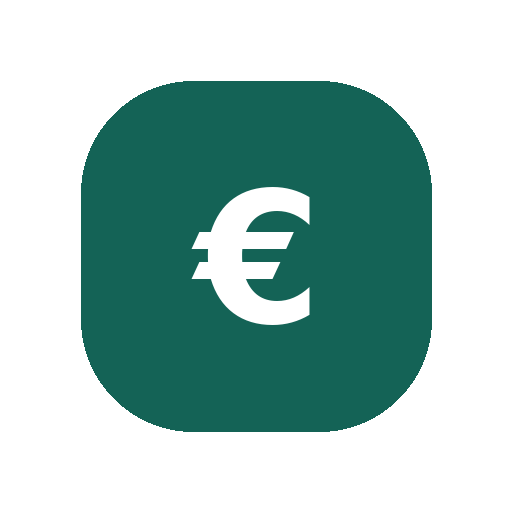
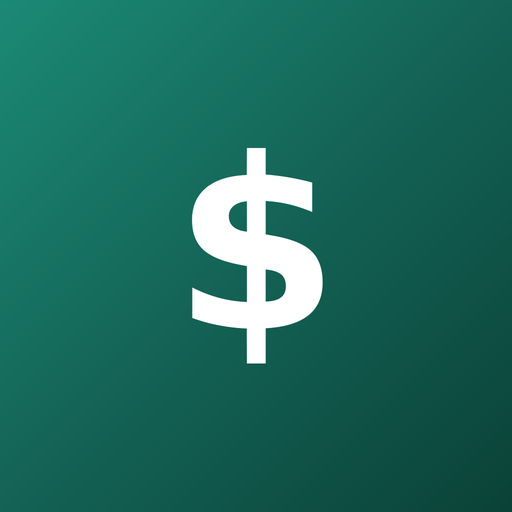
Add files via upload
Parte di aggiornamento per APK e IPA 
1. **Tasto «Ho dimenticato la password»**
   Nella schermata di accesso (email + password) è comparso un piccolo link.
   Scrivi la tua email nel campo, tocca il link e ricevi via email il link per
   reimpostare la password. Vale solo per gli account creati con email+password
   (chi entra con Google non ha una password da reimpostare).

2. **Niente più «Dati aggiornati da un altro dispositivo» quando aggiungi una spesa**
   Prima l'app scambiava la tua stessa modifica per una modifica arrivata da fuori.
   Ora quel messaggio compare **solo** quando i dati cambiano davvero da un altro
   telefono/PC.

3. **Bug «cambio mese → torno in cima alla pagina»**
   Ora quando cambi mese (o modifichi un movimento) la pagina resta dove sei,
   invece di risalire in cima. Lo scorrimento torna in cima solo quando cambi
   scheda o scorri lateralmente tra le schede.

4. **Scheda «Guida all'app»: il testo delle sezioni ora scorre**
   Prima il testo di una sezione aperta risultava tagliato e non si riusciva a
   scorrere. Ora le sezioni hanno un'area di scorrimento dedicata e si legge tutto.

5. **Icone nuove**
   Nuova icona con la **«$»** bianca su fondo teal (richiama sia la S di Spendy
   sia i soldi), al posto della vecchia «€». Sono state aggiornate tutte le misure
   (favicon, 192, 512, 512 maskable, apple-touch-icon).

diff --git a/www/index.html b/www/index.html
@@ -317,6 +317,9 @@ main#content{flex:1;min-height:0;padding:8px 16px 132px;overflow-y:auto;-webkit-
 @keyframes fadein2{from{opacity:0;}to{opacity:1;}}
 .sheet-wrap{position:absolute;left:0;right:0;bottom:0;max-width:480px;margin:0 auto;}
 .sheet{width:100%;max-height:92vh;overflow-y:auto;background:var(--app-bg);border-radius:26px 26px 0 0;padding:10px 18px calc(22px + env(safe-area-inset-bottom));display:flex;flex-direction:column;gap:16px;animation:slideup .38s var(--ease-spring);box-shadow:0 -12px 40px rgba(23,27,24,0.18);}
+.link-btn{background:none;border:none;color:var(--accent);font-size:13px;font-weight:600;padding:2px 0;text-align:center;width:100%;cursor:pointer;text-decoration:underline;text-underline-offset:2px;}
+.link-btn:active{opacity:0.6;}
+.info-scroll{flex:1 1 auto;min-height:0;overflow-y:auto;-webkit-overflow-scrolling:touch;overscroll-behavior:contain;display:flex;flex-direction:column;gap:9px;margin:0 -2px;padding:0 2px 2px;}
 @keyframes slideup{from{transform:translateY(100%);}to{transform:translateY(0);}}
 .sheet-handle{width:38px;height:4.5px;background:var(--handle);border-radius:99px;margin:4px auto 0;flex-shrink:0;}
 /* ---------- Ticket importo ---------- */
@@ -818,7 +821,7 @@ async function saveState(){
    (solo storage locale).
 ================================================================ */
 var SYNC_CONFIG_KEY='expense-tracker-sync-config-v1';
-var APP_VERSION='v20';
+var APP_VERSION='v21';
 /* Config Firebase del progetto, incorporata nell'app: la sincronizzazione
    non chiede più di incollare l'oggetto firebaseConfig a mano.
    Nota: la config web di Firebase non è un segreto (sta in ogni client);
@@ -843,6 +846,7 @@ var sync={
   unsubscribeInbox:null,
   pendingInbox:[],
   lastPushedJSON:null,
+  recentPushes:[],     // ultime scritture NOSTRE: per non mostrare il toast quando l'eco torna indietro
   sdkLoadPromise:null,
   pendingPush:false,   // ci sono modifiche locali non ancora salite nel cloud
   lastSyncAt:0,        // ultima sincronizzazione riuscita (ms)
@@ -966,12 +970,22 @@ function syncDocRef(uid){
   return sync.db.collection('syncedState').doc(uid);
 }
 
+function rememberOwnPush(json){
+  if(!sync.recentPushes)sync.recentPushes=[];
+  sync.recentPushes.push(json);
+  if(sync.recentPushes.length>8)sync.recentPushes.shift();
+}
 async function rawPushStateToCloud(){
   if(!sync.db||!sync.uid)return false;
+  var json=JSON.stringify(state);
+  // Segna SUBITO (prima della scrittura) che questa versione è nostra:
+  // il listener riceve l'eco della nostra stessa modifica quasi all'istante,
+  // spesso prima che il .set() sia confermato dal server. Riconoscendola qui
+  // evitiamo il toast "Dati aggiornati da un altro dispositivo" per le nostre modifiche.
+  sync.lastPushedJSON=json;
+  rememberOwnPush(json);
   try{
-    var json=JSON.stringify(state);
     await syncDocRef(sync.uid).set({data:json,updatedAt:firebase.firestore.FieldValue.serverTimestamp(),updatedBy:sync.email||'device'});
-    sync.lastPushedJSON=json;
     markPendingPush(false);
     return true;
   }catch(e){
@@ -1004,6 +1018,7 @@ function attachSnapshotListener(){
     var remote=snap.data();
     if(!remote||!remote.data)return;
     if(remote.data===sync.lastPushedJSON)return; // eco della nostra stessa scrittura
+    if(sync.recentPushes&&sync.recentPushes.indexOf(remote.data)>-1){sync.lastPushedJSON=remote.data;return;} // eco di una nostra scrittura recente
     try{
       var parsed=JSON.parse(remote.data);
       var remoteAt=parsed.updatedAt||0,localAt=(state&&state.updatedAt)||0;
@@ -1451,6 +1466,28 @@ async function connectSyncWithCredentials(firebaseConfig,email,password,mode){
   }
 }
 
+/* Invia l'email per reimpostare la password a chi ha dimenticato le credenziali.
+   Non serve essere già connessi: inizializza Firebase con la config e chiede
+   a Firebase Auth di spedire il link di reset all'indirizzo indicato. */
+async function sendPasswordReset(firebaseConfig,email){
+  try{
+    await loadFirebaseSDK();
+    sync.firebaseApp=firebase.apps.length?firebase.apps[0]:firebase.initializeApp(firebaseConfig);
+    sync.auth=firebase.auth();
+    await sync.auth.sendPasswordResetEmail(email);
+    return {ok:true};
+  }catch(e){
+    var msg='Non è stato possibile inviare l\'email. Riprova.';
+    if(e&&e.code){
+      if(e.code==='auth/invalid-email')msg='Email non valida.';
+      else if(e.code==='auth/user-not-found')msg='Nessun account registrato con questa email.';
+      else if(e.code==='auth/network-request-failed')msg='Connessione di rete non disponibile.';
+      else if(e.code==='auth/too-many-requests')msg='Troppi tentativi: attendi qualche minuto e riprova.';
+    }
+    return {ok:false,error:msg};
+  }
+}
+
 /* ================================================================
    HELPERS
 ================================================================ */
@@ -1682,6 +1719,12 @@ function confirmDialog(msg,onOk,okLabel){
 var TAB_ORDER=['home','history','recurring','accounts'];
 function renderActiveTab(dir){
   var c=document.getElementById('content');
+  // Se stiamo solo ridisegnando la stessa scheda (es. cambio mese, modifica di
+  // un movimento) manteniamo la posizione di scorrimento invece di tornare in
+  // cima. Azzeriamo lo scroll solo quando si cambia scheda o si scorre lateralmente.
+  var prevScroll=c?c.scrollTop:0;
+  var isSwipe=(dir==='left'||dir==='right');
+  var sameTab=(ui._renderedTab===ui.activeTab);
   if(ui.activeTab==='home'){c.innerHTML=homeHTML();wireHome();}
   else if(ui.activeTab==='history'){c.innerHTML=historyHTML();wireHistory();}
   else if(ui.activeTab==='recurring'){c.innerHTML=recurringHTML();wireRecurring();}
@@ -1691,7 +1734,8 @@ function renderActiveTab(dir){
     var v=c.querySelector('.view');
     if(v)v.classList.add(dir==='left'?'enter-left':'enter-right');
   }
-  c.scrollTop=0;
+  if(sameTab&&!isSwipe)c.scrollTop=prevScroll; else c.scrollTop=0;
+  ui._renderedTab=ui.activeTab;
   document.querySelectorAll('.nav-btn').forEach(function(b){b.classList.toggle('active',b.dataset.tab===ui.activeTab);});
   var appEl=document.getElementById('app');
   if(appEl&&appEl.getAttribute('data-amb')!==ui.activeTab)appEl.setAttribute('data-amb',ui.activeTab);
@@ -2258,6 +2302,7 @@ function openInfoSheet(){
       '<div class="sheet-handle"></div>'+
       '<h3 style="margin:4px 0 0;">Come funziona Spendy</h3>'+
       '<p class="hint" style="margin:0;">Tocca una sezione per scoprirla.</p>'+
+      '<div class="info-scroll">'+
       sections.map(function(s,i){
         var open=i===openIdx;
         return '<div class="info-card'+(open?' open':'')+'" data-info-idx="'+i+'">'+
@@ -2265,6 +2310,7 @@ function openInfoSheet(){
           (open?'<div class="info-body">'+infoIllus(s.k)+'<p>'+s.d+'</p></div>':'')+
         '</div>';
       }).join('')+
+      '</div>'+
       '<p class="profile-footer" style="margin-top:2px;">Spendy · versione '+APP_VERSION+'</p>'+
     '</div>';
   }
@@ -2973,6 +3019,7 @@ function openSyncModal(){
     email:cfg&&cfg.email?cfg.email:'',
     password:'',
     errorMsg:null,
+    notice:null,
     busy:false
   };
 
@@ -3001,7 +3048,9 @@ function openSyncModal(){
       '<p class="hint">'+(m.mode==='signup'?'Crea le credenziali la prima volta, da questo dispositivo. Userai le stesse email e password per accedere dagli altri dispositivi.':'Usa le stesse email e password create sul primo dispositivo.')+'</p>'+
       '<div class="field-group"><label class="field-label">Email</label><input type="email" class="text-input" id="syncEmail" value="'+esc(m.email)+'" autocomplete="email"></div>'+
       '<div class="field-group"><label class="field-label">Password</label><input type="password" class="text-input" id="syncPassword" autocomplete="'+(m.mode==='signup'?'new-password':'current-password')+'" placeholder="'+(m.mode==='signup'?'Almeno 6 caratteri':'')+'"></div>'+
+      (m.mode==='login'?'<button type="button" class="link-btn" id="syncForgot" '+(m.busy?'disabled':'')+'>Ho dimenticato la password</button>':'')+
       (m.errorMsg?'<p class="hint" style="color:var(--red);">⚠ '+esc(m.errorMsg)+'</p>':'')+
+      (m.notice?'<p class="hint" style="color:var(--accent);">✅ '+esc(m.notice)+'</p>':'')+
       '<button class="btn-primary full-width" id="syncSubmit" '+(m.busy?'disabled':'')+'>'+(m.busy?'Connessione…':(m.mode==='signup'?'Crea account e connetti':'Accedi'))+'</button>'+
       '<button class="btn-secondary full-width" id="syncBack2">Indietro</button>'+
     '</div>';
@@ -3019,8 +3068,19 @@ function openSyncModal(){
         m.parsedConfig=parsed;m.configText=raw;m.errorMsg=null;m.step=2;renderStep();
       };
     }else{
-      document.querySelectorAll('[data-sync-mode]').forEach(function(b){b.onclick=function(){m.mode=b.dataset.syncMode;m.errorMsg=null;renderStep();};});
+      document.querySelectorAll('[data-sync-mode]').forEach(function(b){b.onclick=function(){m.mode=b.dataset.syncMode;m.errorMsg=null;m.notice=null;renderStep();};});
       document.getElementById('syncBack2').onclick=function(){m.step=1;renderStep();};
+      var fp=document.getElementById('syncForgot');
+      if(fp)fp.onclick=async function(){
+        var email=document.getElementById('syncEmail').value.trim();
+        if(!email){m.errorMsg='Scrivi prima la tua email qui sopra, poi tocca «Ho dimenticato la password».';m.notice=null;renderStep();return;}
+        m.email=email;m.busy=true;m.errorMsg=null;m.notice=null;renderStep();
+        var res=await sendPasswordReset(m.parsedConfig,email);
+        m.busy=false;
+        if(res.ok){m.notice='Ti abbiamo inviato un\'email per reimpostare la password ('+email+'). Controlla anche lo spam.';}
+        else{m.errorMsg=res.error;}
+        renderStep();
+      };
       document.getElementById('syncGoogle').onclick=async function(){
         m.busy=true;m.errorMsg=null;renderStep();
         var res=await connectSyncWithGoogle(m.parsedConfig);

diff --git a/www/service-worker.js b/www/service-worker.js
@@ -2,7 +2,7 @@
 // così si apre anche offline e si installa correttamente come PWA.
 // Cambia CACHE_NAME quando aggiorni index.html per forzare il refresh
 // della cache sui dispositivi già installati.
-var CACHE_NAME = 'spese-tracker-v23';
+var CACHE_NAME = 'spese-tracker-v24';
 var FILES_TO_CACHE = [
   './index.html',
   './registra.html',
